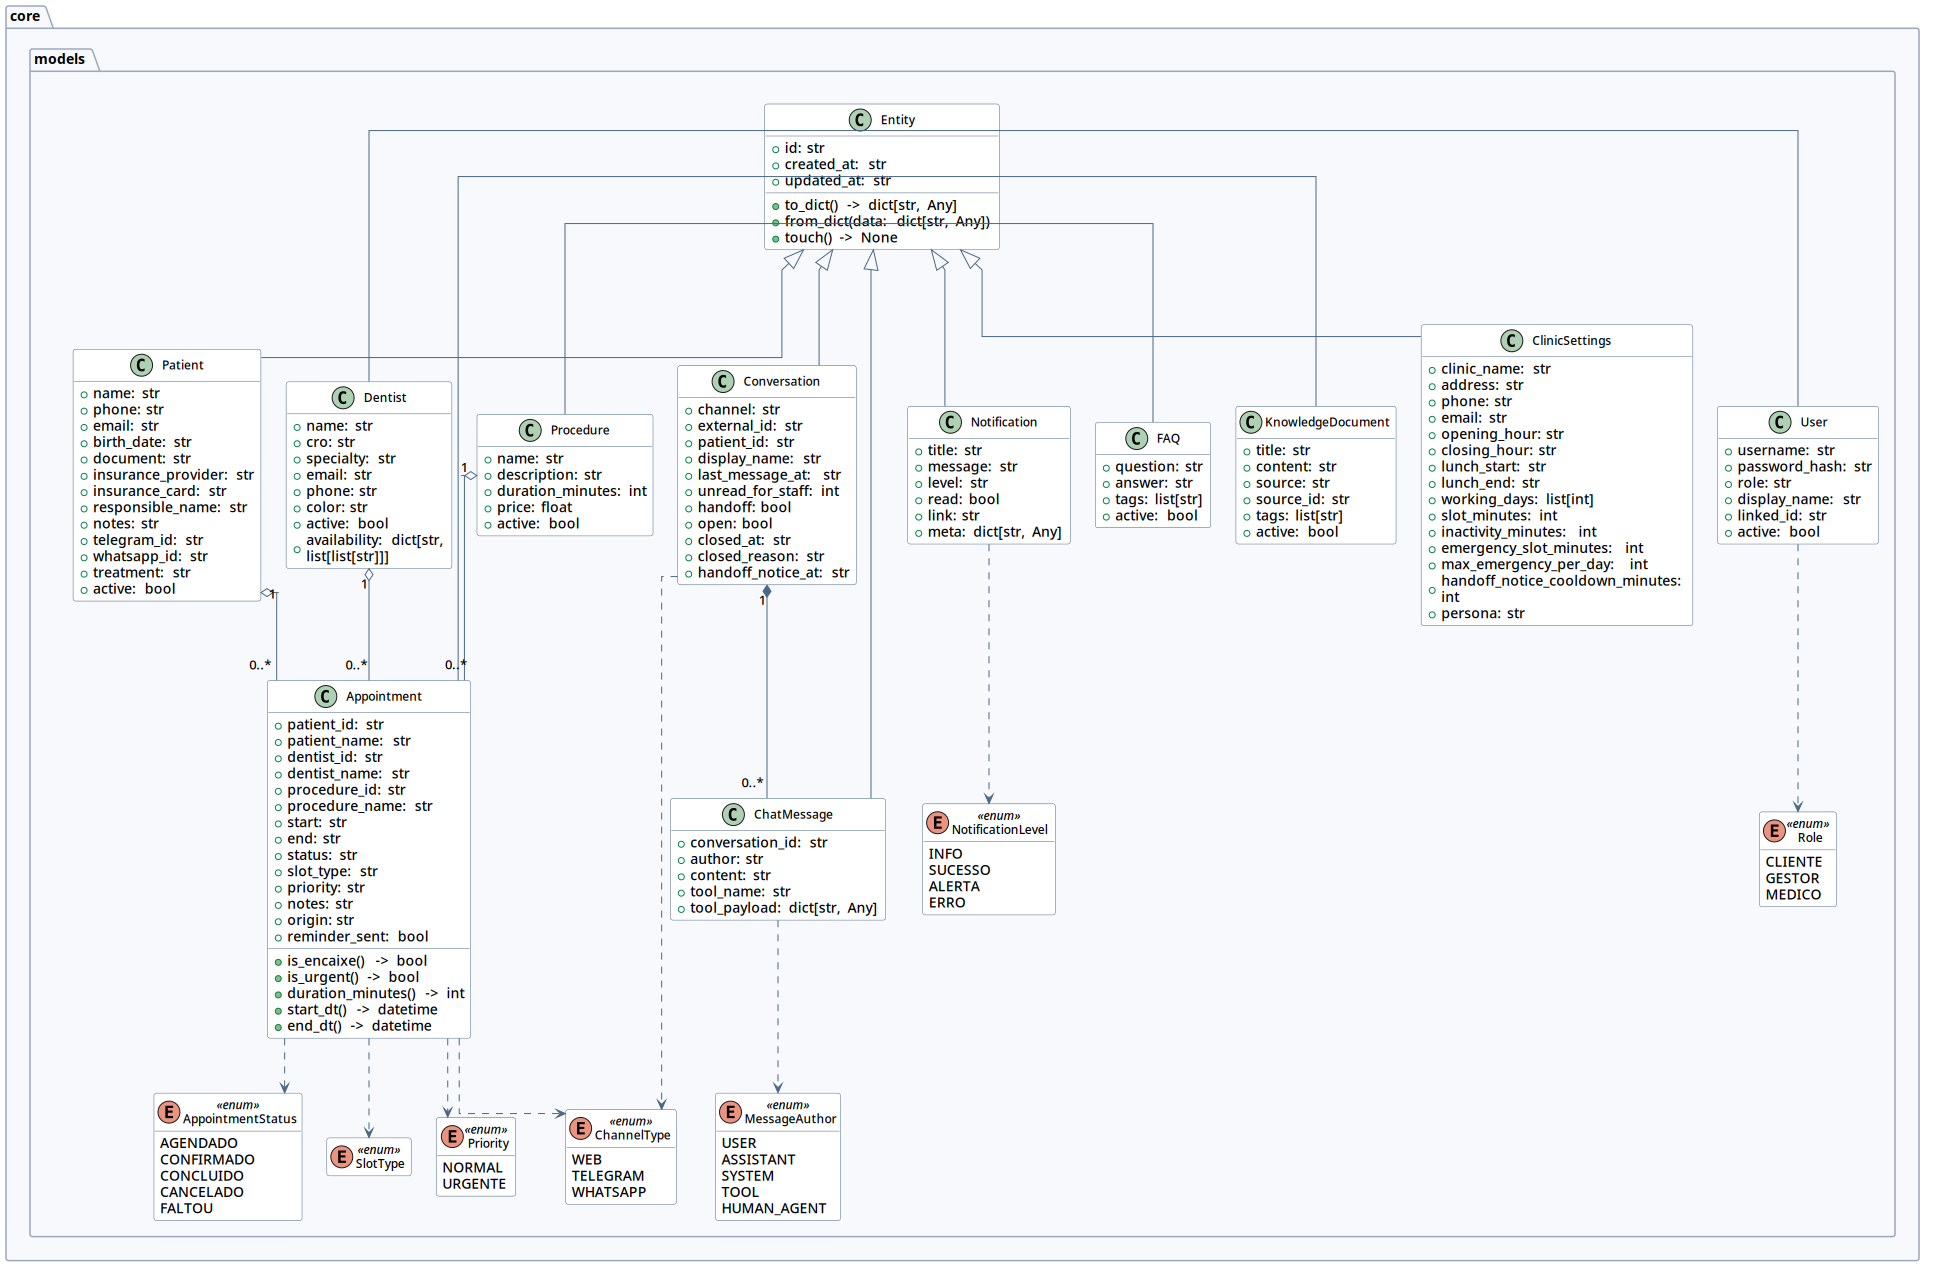
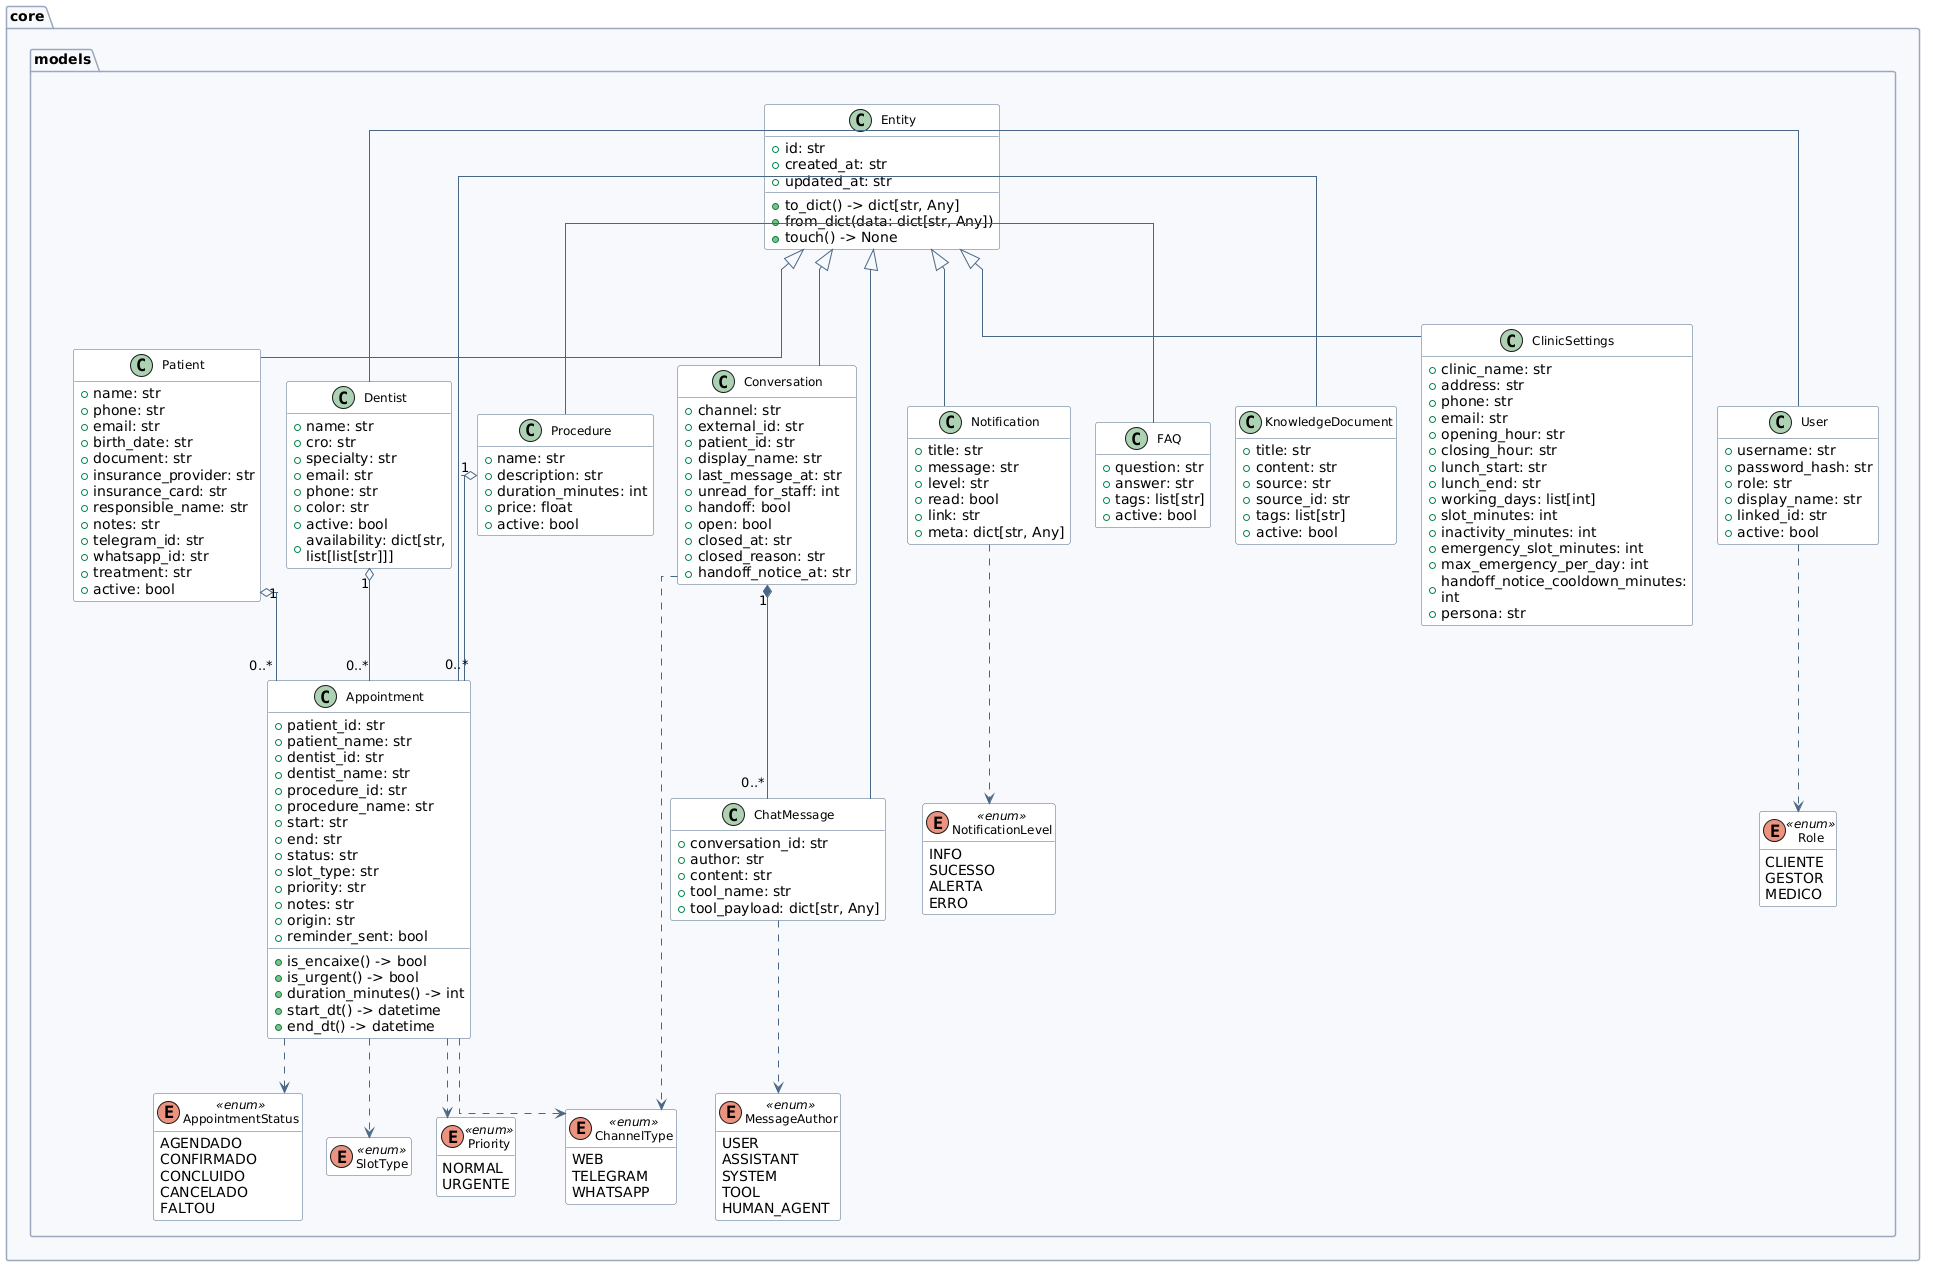
Gera os PNG direto pelo PlantUML
O Makefile convertia SVG em PNG com um script Python (cairosvg + Pillow).
O PlantUML já faz isso sozinho com -tpng, então o script saiu.

Agora só precisa de Docker para gerar os desenhos, e os PNG ficaram
quase pela metade do tamanho: 5,1 MB para 2,6 MB.

diff --git a/docs/uml/README.md b/docs/uml/README.md
@@ -5,7 +5,7 @@ a partir dos arquivos desta pasta.
 
 ## Como gerar
 
-Precisa de Docker (para o PlantUML) e do `.venv` do projeto (para virar PNG):
+Só precisa de Docker: o PlantUML gera SVG e PNG por conta própria.
 
 ```bash
 cd docs/uml
@@ -33,7 +33,6 @@ make clean    # apaga o que foi gerado
 | `tools/dividir.py` | recorta os diagramas grandes em menores, por pacote |
 | `tools/ajustar_layout.py` | aplica o estilo e escolhe a orientação que deixa o desenho mais quadrado |
 | `tools/checar_relacoes.py` | lê o código e avisa quando uma seta está errada |
-| `tools/render_svg_to_png.py` | transforma os SVG em PNG |
 
 O checador aceita `--corrigir` para arrumar sozinho as setas trocadas:
 
